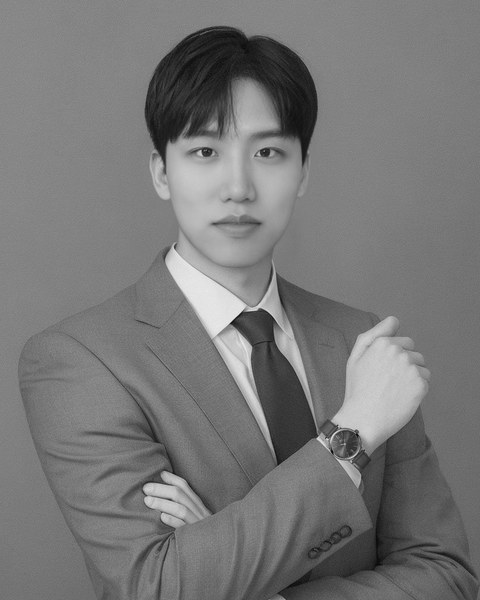
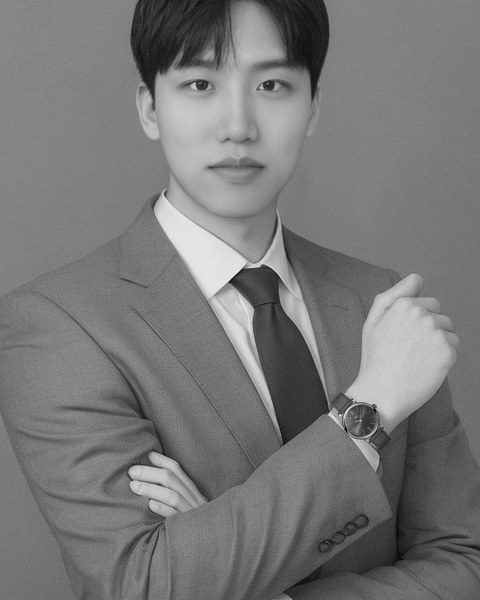
Moderately tighten 6 teacher photos for a closer look
김금단/안소현/배경호/신병철/최윤후/조윤성 zoomed in ~13% from their
current framing (kept the bottom edge fixed so the crossed-arm pose
stays fully in frame, trimmed headroom slightly instead) — a middle
ground between the previous half-body shot and the bust-only crop
that was rejected as too tight/inconsistent.

diff --git a/index.html b/index.html
@@ -204,33 +204,33 @@
           <h3>김진우</h3>
           <p class="tcard-role">부원장 · 국어</p>
         </div>
-        <div class="carousel-slide tcard lightbox-trigger" data-name="김금단" data-role="팀장 · 영어" data-photo="assets/teacher-kimgeumdan.jpg?v=6">
-          <div class="tcard-photo-wrap"><img class="tcard-photo" src="assets/teacher-kimgeumdan.jpg?v=6" alt="김금단"></div>
+        <div class="carousel-slide tcard lightbox-trigger" data-name="김금단" data-role="팀장 · 영어" data-photo="assets/teacher-kimgeumdan.jpg?v=7">
+          <div class="tcard-photo-wrap"><img class="tcard-photo" src="assets/teacher-kimgeumdan.jpg?v=7" alt="김금단"></div>
           <h3>김금단</h3>
           <p class="tcard-role">팀장 · 영어</p>
         </div>
-        <div class="carousel-slide tcard lightbox-trigger" data-name="배경호" data-role="팀장 · 수학" data-photo="assets/teacher-baekyungho.jpg?v=5">
-          <div class="tcard-photo-wrap"><img class="tcard-photo" src="assets/teacher-baekyungho.jpg?v=5" alt="배경호"></div>
+        <div class="carousel-slide tcard lightbox-trigger" data-name="배경호" data-role="팀장 · 수학" data-photo="assets/teacher-baekyungho.jpg?v=6">
+          <div class="tcard-photo-wrap"><img class="tcard-photo" src="assets/teacher-baekyungho.jpg?v=6" alt="배경호"></div>
           <h3>배경호</h3>
           <p class="tcard-role">팀장 · 수학</p>
         </div>
-        <div class="carousel-slide tcard lightbox-trigger" data-name="신병철" data-role="수학" data-photo="assets/teacher-shinbyungchul.jpg?v=4">
-          <div class="tcard-photo-wrap"><img class="tcard-photo" src="assets/teacher-shinbyungchul.jpg?v=4" alt="신병철"></div>
+        <div class="carousel-slide tcard lightbox-trigger" data-name="신병철" data-role="수학" data-photo="assets/teacher-shinbyungchul.jpg?v=5">
+          <div class="tcard-photo-wrap"><img class="tcard-photo" src="assets/teacher-shinbyungchul.jpg?v=5" alt="신병철"></div>
           <h3>신병철</h3>
           <p class="tcard-role">수학</p>
         </div>
-        <div class="carousel-slide tcard lightbox-trigger" data-name="안소현" data-role="국어" data-photo="assets/teacher-ansoseon.jpg?v=6">
-          <div class="tcard-photo-wrap"><img class="tcard-photo" src="assets/teacher-ansoseon.jpg?v=6" alt="안소현"></div>
+        <div class="carousel-slide tcard lightbox-trigger" data-name="안소현" data-role="국어" data-photo="assets/teacher-ansoseon.jpg?v=7">
+          <div class="tcard-photo-wrap"><img class="tcard-photo" src="assets/teacher-ansoseon.jpg?v=7" alt="안소현"></div>
           <h3>안소현</h3>
           <p class="tcard-role">국어</p>
         </div>
-        <div class="carousel-slide tcard lightbox-trigger" data-name="최윤후" data-role="영어" data-photo="assets/teacher-choiyoonhoo.jpg?v=4">
-          <div class="tcard-photo-wrap"><img class="tcard-photo" src="assets/teacher-choiyoonhoo.jpg?v=4" alt="최윤후"></div>
+        <div class="carousel-slide tcard lightbox-trigger" data-name="최윤후" data-role="영어" data-photo="assets/teacher-choiyoonhoo.jpg?v=5">
+          <div class="tcard-photo-wrap"><img class="tcard-photo" src="assets/teacher-choiyoonhoo.jpg?v=5" alt="최윤후"></div>
           <h3>최윤후</h3>
           <p class="tcard-role">영어</p>
         </div>
-        <div class="carousel-slide tcard lightbox-trigger" data-name="조윤성" data-role="수학" data-photo="assets/teacher-jhoyoonsung.jpg?v=3">
-          <div class="tcard-photo-wrap"><img class="tcard-photo" src="assets/teacher-jhoyoonsung.jpg?v=3" alt="조윤성"></div>
+        <div class="carousel-slide tcard lightbox-trigger" data-name="조윤성" data-role="수학" data-photo="assets/teacher-jhoyoonsung.jpg?v=4">
+          <div class="tcard-photo-wrap"><img class="tcard-photo" src="assets/teacher-jhoyoonsung.jpg?v=4" alt="조윤성"></div>
           <h3>조윤성</h3>
           <p class="tcard-role">수학</p>
         </div>

diff --git a/process-teachers.js b/process-teachers.js
@@ -11,12 +11,12 @@ const OUT_W = 480, OUT_H = 600; // 4:5 portrait, consistent across all cards
 const photos = [
   { file: '디쌤 원장 프로필.jpg', out: 'teacher-disaem.jpg', top: 0.07, bottom: 0.88, left: 0.1635, right: 0.8115, normalize: true },
   { file: '김진우 프로필.jpg', out: 'teacher-kimjinwoo.jpg', top: 0.02, bottom: 0.57, left: 0.23, right: 0.78 },
-  { file: '김금단 프로필.png', out: 'teacher-kimgeumdan.jpg', top: 0.16, bottom: 0.74, left: 0.17, right: 0.82 },
-  { file: '배경호 프로필.jpg', out: 'teacher-baekyungho.jpg', top: 0.015, bottom: 0.87, left: 0.11, right: 0.92 },
-  { file: '신병철프로필.png', out: 'teacher-shinbyungchul.jpg', top: 0.02, bottom: 0.804, left: 0.05, right: 0.93 },
-  { file: '안소현 프로필.jpg', out: 'teacher-ansoseon.jpg', top: 0.05, bottom: 0.64, left: 0.17, right: 0.82 },
-  { file: '최윤후 프로필.jpg', out: 'teacher-choiyoonhoo.jpg', top: 0.015, bottom: 0.777, left: 0.08, right: 0.89 },
-  { file: '조윤성 프로필.png', out: 'teacher-jhoyoonsung.jpg', top: 0.12, bottom: 0.76, left: 0.13, right: 0.85 },
+  { file: '김금단 프로필.png', out: 'teacher-kimgeumdan.jpg', top: 0.235, bottom: 0.74, left: 0.212, right: 0.778 },
+  { file: '배경호 프로필.jpg', out: 'teacher-baekyungho.jpg', top: 0.126, bottom: 0.87, left: 0.163, right: 0.867 },
+  { file: '신병철프로필.png', out: 'teacher-shinbyungchul.jpg', top: 0.122, bottom: 0.804, left: 0.107, right: 0.873 },
+  { file: '안소현 프로필.jpg', out: 'teacher-ansoseon.jpg', top: 0.127, bottom: 0.64, left: 0.212, right: 0.778 },
+  { file: '최윤후 프로필.jpg', out: 'teacher-choiyoonhoo.jpg', top: 0.114, bottom: 0.777, left: 0.133, right: 0.837 },
+  { file: '조윤성 프로필.png', out: 'teacher-jhoyoonsung.jpg', top: 0.203, bottom: 0.76, left: 0.177, right: 0.803 },
   { file: '장효진 프로필.jpg', out: 'teacher-jangHyojin.jpg', top: 0.08, bottom: 0.50, left: 0.2225, right: 0.7275 },
   { file: '김정민 프로필.png', out: 'teacher-kimjeongmin.jpg', top: 0.045, bottom: 0.86, left: 0.2115, right: 0.8635 },
   { file: '박한미 프로필.jpeg', out: 'teacher-parkhanmi.jpg', top: 0.03, bottom: 0.81, left: 0.10, right: 0.90 },
